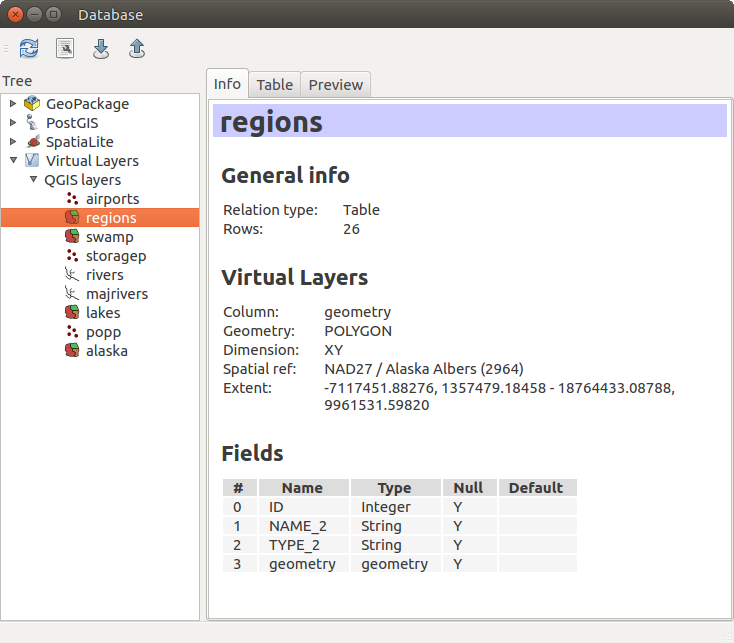
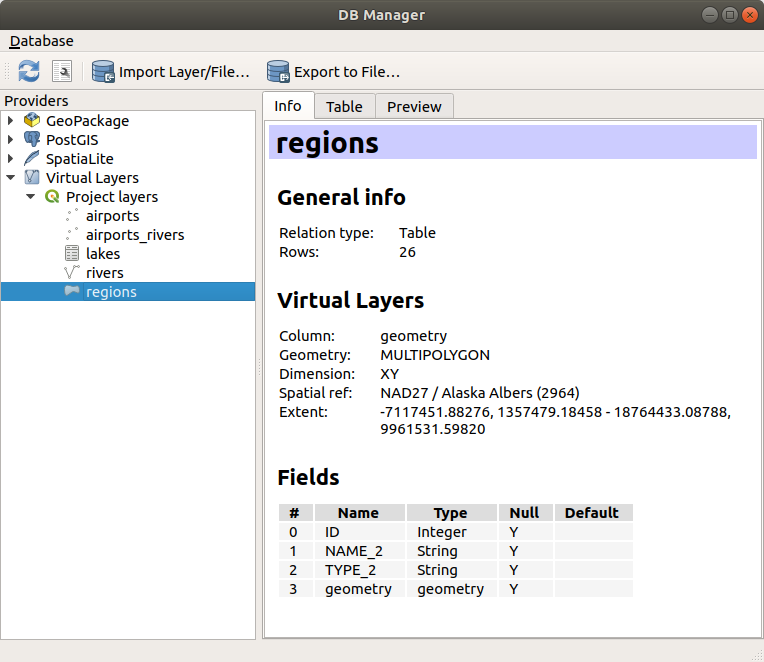
Update to QGIS 3 GUI - DB Manager plugin (#4877)
* Update to QGIS 3 GUI - DB Manager plugin

* Update substitutions.txt

* Update substitutions.rst

* Add files via upload

* Add files via upload

* Update substitutions.rst

diff --git a/source/docs/user_manual/plugins/core_plugins/plugins_db_manager.rst b/source/docs/user_manual/plugins/core_plugins/plugins_db_manager.rst
@@ -4,13 +4,14 @@
 DB Manager Plugin
 =================
 
-The DB Manager Plugin is officially part of the QGIS core and is intended to be
-the main tool to integrate and manage spatial database formats supported by QGIS
-(PostGIS, SpatiaLite, GeoPackage, Oracle Spatial, Virtual layers) in one user interface.
+The DB Manager Plugin is intended to be the main tool to integrate and
+manage spatial database formats supported by QGIS (PostGIS, SpatiaLite,
+GeoPackage, Oracle Spatial, Virtual layers) in one user interface.
 The |dbManager| :sup:`DB Manager` Plugin provides several features.
-You can drag layers from the QGIS Browser into the DB Manager, and it will import your layer
-into your spatial database. You can drag and drop tables between spatial databases
-and they will get imported.
+You can drag layers from the QGIS Browser into the DB Manager, and it
+will import your layer into your spatial database.
+You can drag and drop tables between spatial databases and they will
+get imported.
 
 .. _figure_db_manager:
 
@@ -20,44 +21,59 @@ and they will get imported.
    DB Manager dialog
 
 
-The :menuselection:`Database` menu allows you to connect to an existing database, to
-start the SQL window and to exit the DB Manager Plugin. Once you are connected to
-an existing database, the menus :menuselection:`Schema` and :menuselection:`Table`
-additionally appear.
+The :menuselection:`Database` menu allows you to connect to an
+existing database, to start the SQL window and to exit the DB Manager
+Plugin.
+Once you are connected to an existing database, the menus
+:menuselection:`Schema` (relevant for DBMSs, such as PostGIS /
+PostgreSQL) and :menuselection:`Table` will appear.
 
-The :menuselection:`Schema` menu includes tools to create and delete (empty)
-schemas and, if topology is available (e.g., PostGIS 2), to start a
-:guilabel:`TopoViewer`.
+The :menuselection:`Schema` menu includes tools to create and delete
+(only if empty) schemas and, if topology is available (e.g. with
+PostGIS topology), to start a :guilabel:`TopoViewer`.
 
-The :menuselection:`Table` menu allows you to create and edit tables and to
-delete tables and views. It is also possible to empty tables and to move tables
-from one schema to another. As further functionality, you can perform a VACUUM and
-then an ANALYZE for each selected table. Plain VACUUM simply reclaims space and
-makes it available for reuse. ANALYZE updates statistics to determine the
-most efficient way to execute a query. Finally, you can import layers/files, if they
-are loaded in QGIS or exist in the file system. And you can export database tables
-to shape with the Export File feature.
+The :menuselection:`Table` menu allows you to create and edit tables
+and to delete tables and views.
+It is also possible to empty tables and to move tables between schemas.
+You can :guilabel:`Run Vacuum Analyze` for the selected table.
+*Vacuum* reclaims space and makes it available for reuse, and
+*analyze* updates statistics that is used to determine the most
+efficient way to execute a query.
+:guilabel:`Change Logging...` allows you to add change logging
+support to a table.
+Finally, you can :guilabel:`Import Layer/File...` and
+:guilabel:`Export to File...`.
 
-The :guilabel:`Tree` window lists all existing databases supported by QGIS. With
-a double-click, you can connect to the database. With the right mouse button, you
-can rename and delete existing schemas and tables. Tables can also be added to
-the QGIS canvas with the context menu.
+The :guilabel:`Providers` window lists all existing databases
+supported by QGIS.
+With a double-click, you can connect to the database.
+With the right mouse button, you can rename and delete existing schemas
+and tables.
+Tables can also be added to the QGIS canvas with the context menu.
 
-If connected to a database, the **main** window of the DB Manager offers three
-tabs. The :guilabel:`Info` tab provides information about the table and its
-geometry, as well as about existing fields, constraints and indexes. It also
-allows you to run Vacuum Analyze and to create a spatial index on a selected table,
-if not already done. The :guilabel:`Table` tab shows all attributes, and the
-:guilabel:`Preview` tab renders the geometries as preview.
+If connected to a database, the **main** window of the DB Manager offers
+four tabs.
+The :guilabel:`Info` tab provides information about the table and its
+geometry, as well as about existing fields, constraints and indexes.
+It allows you to create a spatial index on a the selected table.
+The :guilabel:`Table` tab shows the table, and the :guilabel:`Preview`
+tab renders the geometries as preview.
+When you open an :guilabel:`SQL Window`, it will be placed in a new
+tab.
 
 Working with the SQL Window
 ---------------------------
 
-You can also use the DB Manager to execute SQL queries against your
-spatial database and then view the spatial output for queries by adding the
-results to QGIS as a query layer. It is possible to highlight a portion of the SQL
-and only that portion will be executed when you press :kbd:`F5` or click the 
-:guilabel:`Execute (F5)` button.
+You can use the DB Manager to execute SQL queries against your spatial
+database.
+Queries can be saved and loaded, and there the
+:guilabel:`SQL Query Builder` will help you formulate your queries.
+You can even view spatial output by checking :guilabel:`Load as new layer`
+and specifying :guilabel:`Column(s) with unique values` (IDs),
+:guilabel:`Geometry column` and :guilabel:`Layer name (prefix)`.
+It is possible to highlight a portion of the SQL to only execute that
+portion when pressing :kbd:`Ctrl+R` or clicking the :guilabel:`Execute`
+button.
 
 .. _figure_db_manager_queries:
 
@@ -70,8 +86,9 @@ and only that portion will be executed when you press :kbd:`F5` or click the
 
    The SQL Window can also be used to create Virtual Layers. In that case,
    instead of selecting a database, select **QGIS Layers** under **Virtual
-   Layers** before opening the SQL Window. See :ref:`vector_virtual_layers` for
-   instructions on the SQL syntax to use.
+   Layers** before opening the SQL Window.
+   See :ref:`vector_virtual_layers` for instructions on the SQL syntax
+   to use.
 
 
 .. Substitutions definitions - AVOID EDITING PAST THIS LINE
@@ -81,4 +98,6 @@ and only that portion will be executed when you press :kbd:`F5` or click the
    source folder.
 
 .. |dbManager| image:: /static/common/dbmanager.png
+   :width: 1.5em
+.. |sqlQueryBuilder| image:: /static/common/sqlquerybuilder.png
    :width: 1.5em

diff --git a/source/docs/documentation_guidelines/substitutions.rst b/source/docs/documentation_guidelines/substitutions.rst
@@ -432,7 +432,7 @@ Icon                            Substitution                        Icon        
 |plugin|                        ``|plugin|``                        |interpolation|                 ``|interpolation|``
 |gdalScript|                    ``|gdalScript|``                    |metasearch|                    ``|metasearch|``
 |geometryChecker|               ``|geometryChecker|``               |topologyChecker|               ``|topologyChecker|``
-|fromSelectedFeature|           ``|fromSelectedFeature|``
+|fromSelectedFeature|           ``|fromSelectedFeature|``           |sqlQueryBuilder|               ``|sqlQueryBuilder|``
 ==============================  ==================================  ==============================  ==================================
 
 Grass integration
@@ -1190,6 +1190,8 @@ Icon                            Substitution                        Icon        
 .. |splitLayer| image:: /static/common/split_layer.png
    :width: 1.5em
 .. |splitParts| image:: /static/common/mActionSplitParts.png
+   :width: 1.5em
+.. |sqlQueryBuilder| image:: /static/common/sqlquerybuilder.png
    :width: 1.5em
 .. |start| image:: /static/common/mActionStart.png
    :width: 1.5em
